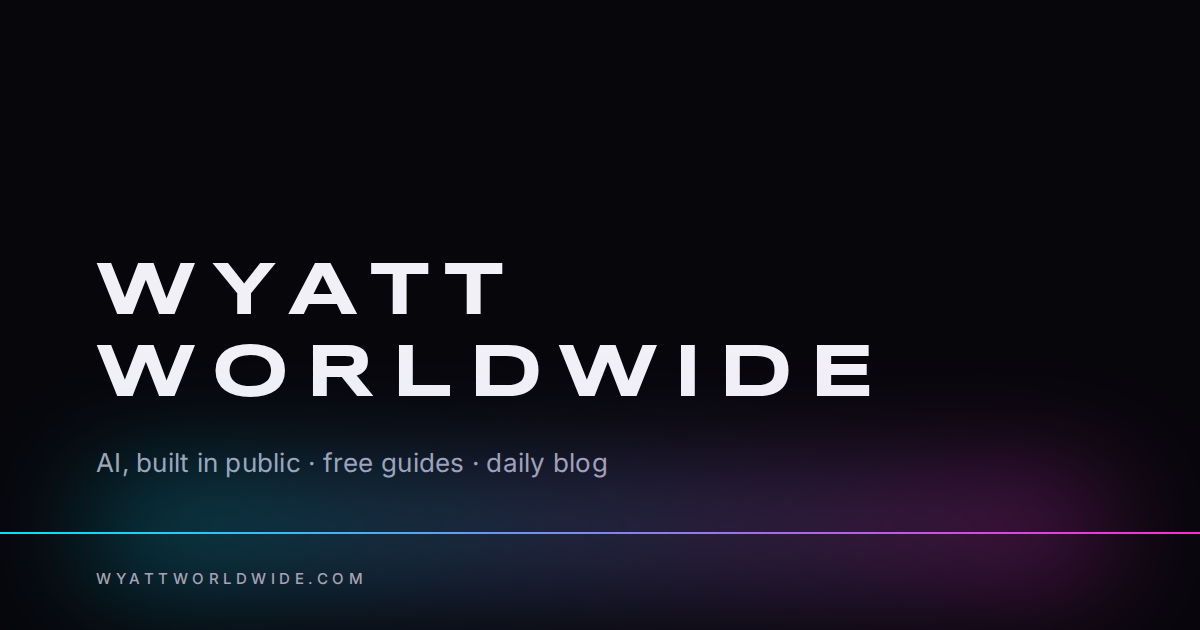
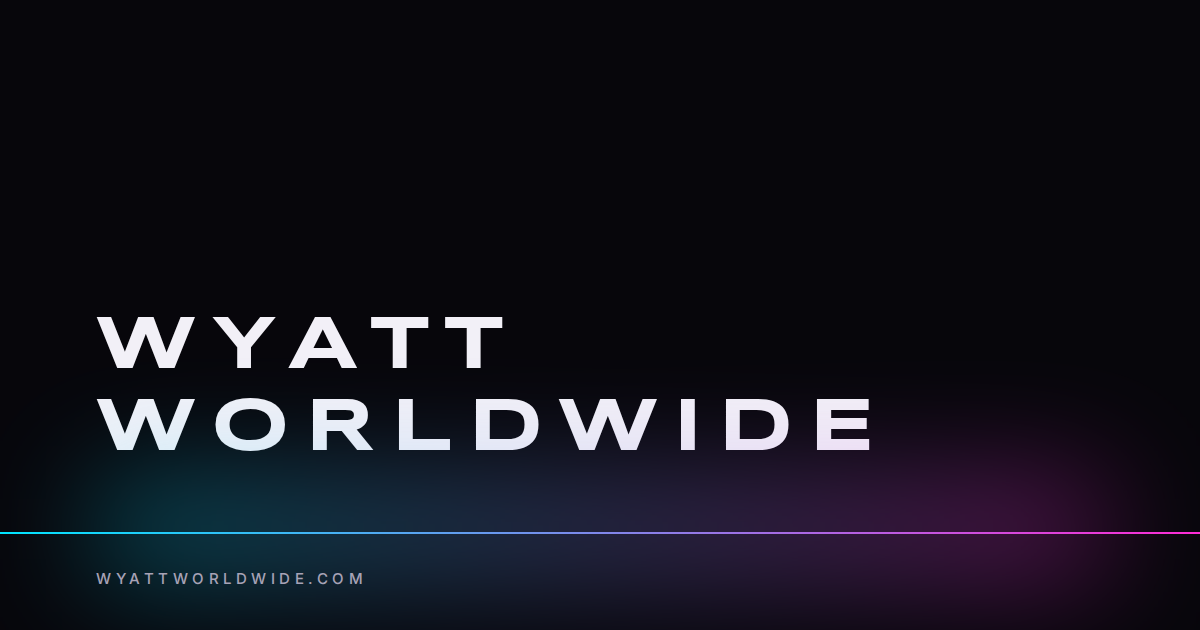
og.png: drop the tagline (Wyatt 11-19: remove 'AI, built in public'); name, horizon line and domain only

Changed region(s): [[0.0617, 0.3921, 0.74, 0.754]]

diff --git a/scripts/ww_og.html b/scripts/ww_og.html
@@ -5,7 +5,7 @@
 <link rel="stylesheet" href="https://fonts.googleapis.com/css2?family=Syncopate:wght@700&family=Inter:wght@400;500&display=swap">
 <style>
 html,body{margin:0;width:1200px;height:630px;overflow:hidden;background:#07060B}
-.c{position:relative;width:1200px;height:630px;display:flex;flex-direction:column;justify-content:flex-end;padding:0 96px 150px;box-sizing:border-box}
+.c{position:relative;width:1200px;height:630px;display:flex;flex-direction:column;justify-content:flex-end;padding:0 96px 160px;box-sizing:border-box}
 h1{margin:0;font:700 76px/1.08 "Syncopate",sans-serif;letter-spacing:.2em;text-transform:uppercase;color:#F2F0F7}
 h1 span{display:block}
 p{margin:30px 0 0;font:400 26px/1.3 "Inter",sans-serif;color:#A7A2B6;letter-spacing:.01em}
@@ -15,5 +15,4 @@ p{margin:30px 0 0;font:400 26px/1.3 "Inter",sans-serif;color:#A7A2B6;letter-spac
 </style></head>
 <body><div class="c"><div class="g"></div><div class="h"></div>
 <h1><span>wyatt</span><span>worldwide</span></h1>
-<p>AI, built in public · free guides · daily blog</p>
 <div class="u">wyattworldwide.com</div></div></body></html>
